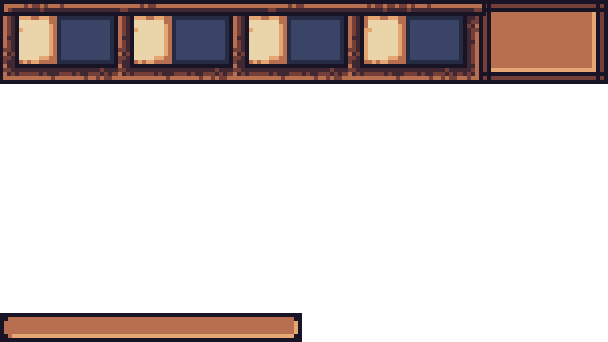
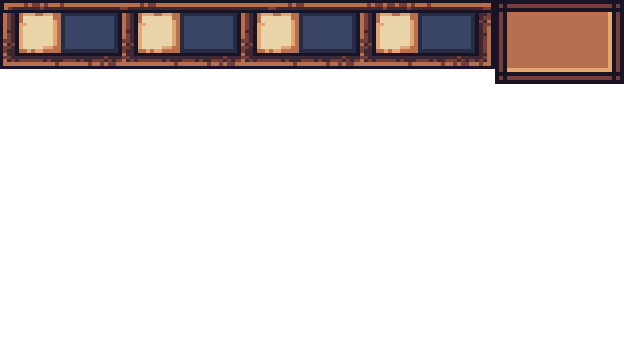
GUI fixes

Changed region(s): [[0.0, 0.0, 0.8125, 0.2632], [0.0, 0.9064, 0.5, 1.0]]

diff --git a/RPG-Code/Code/Source/Modules/Scenes/Gameloop/Scene.cpp b/RPG-Code/Code/Source/Modules/Scenes/Gameloop/Scene.cpp
@@ -287,7 +287,7 @@ bool Scene::PostUpdate()
 
 	if (guiactivate == true)
 	{
-		app->render->DrawTexture(gui, xt - 606, yt - 360);
+		app->render->DrawTexture(gui, xt - 623, yt - 360);
 	}
 	if (app->collisions->debug)
 	{
